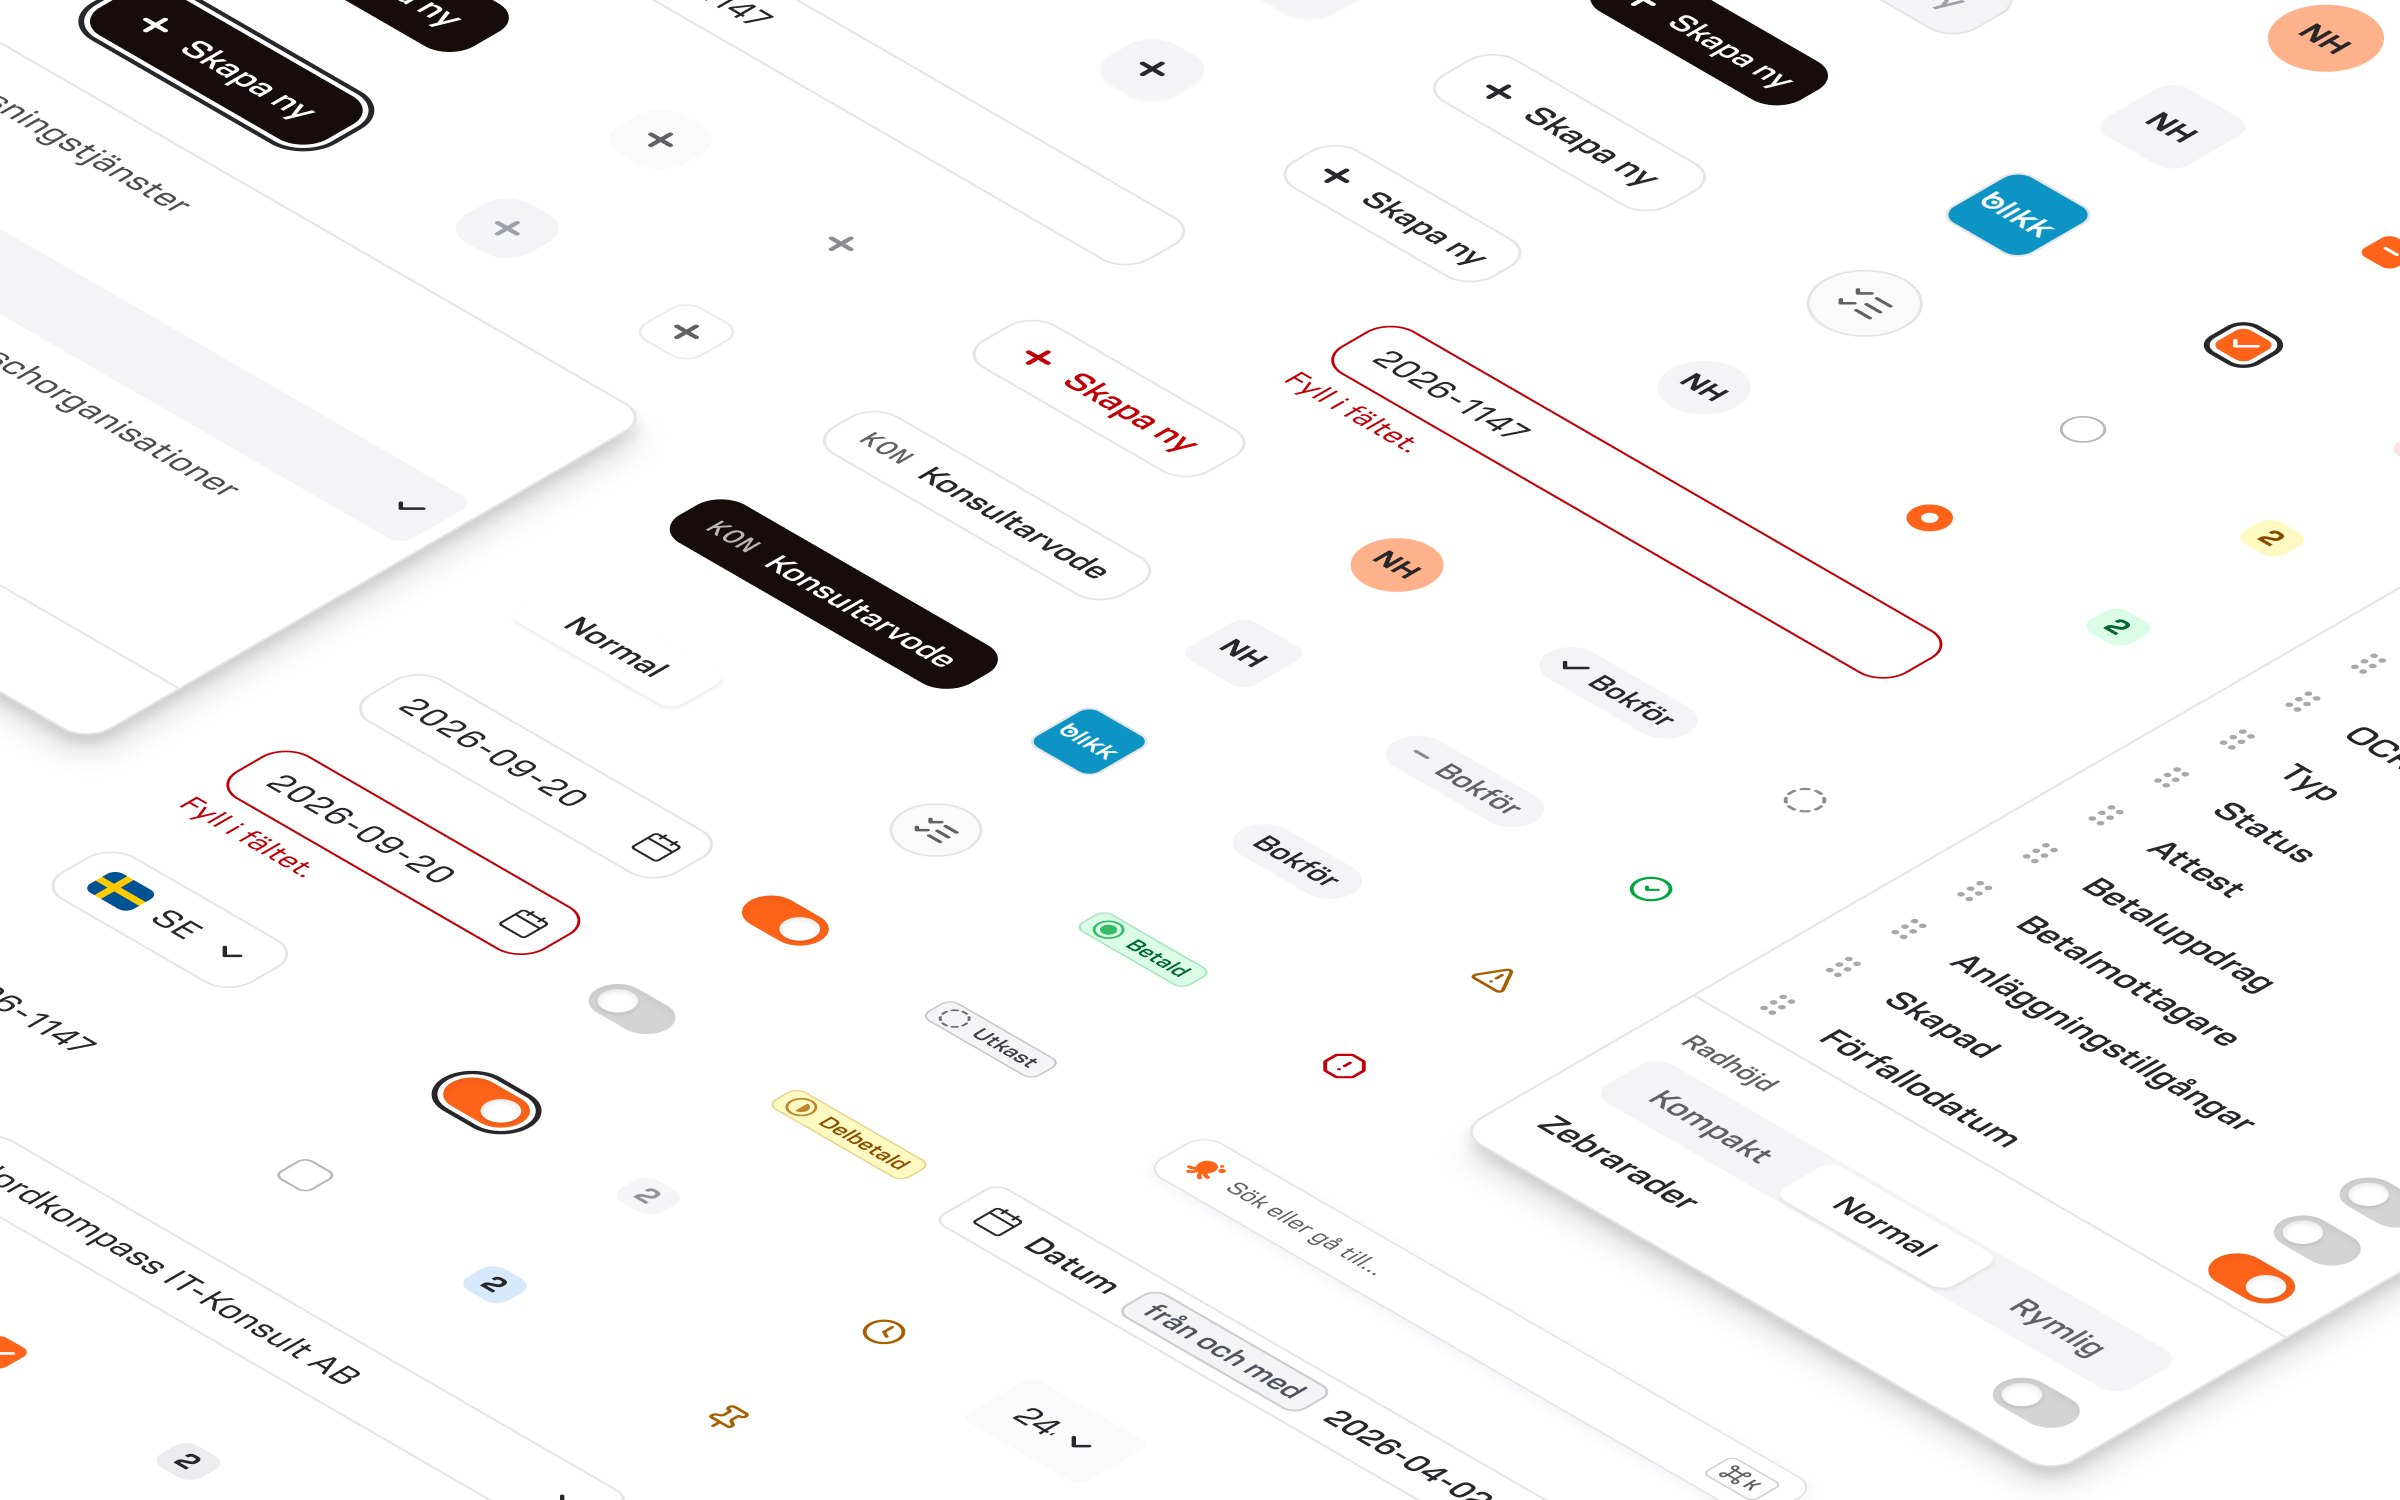
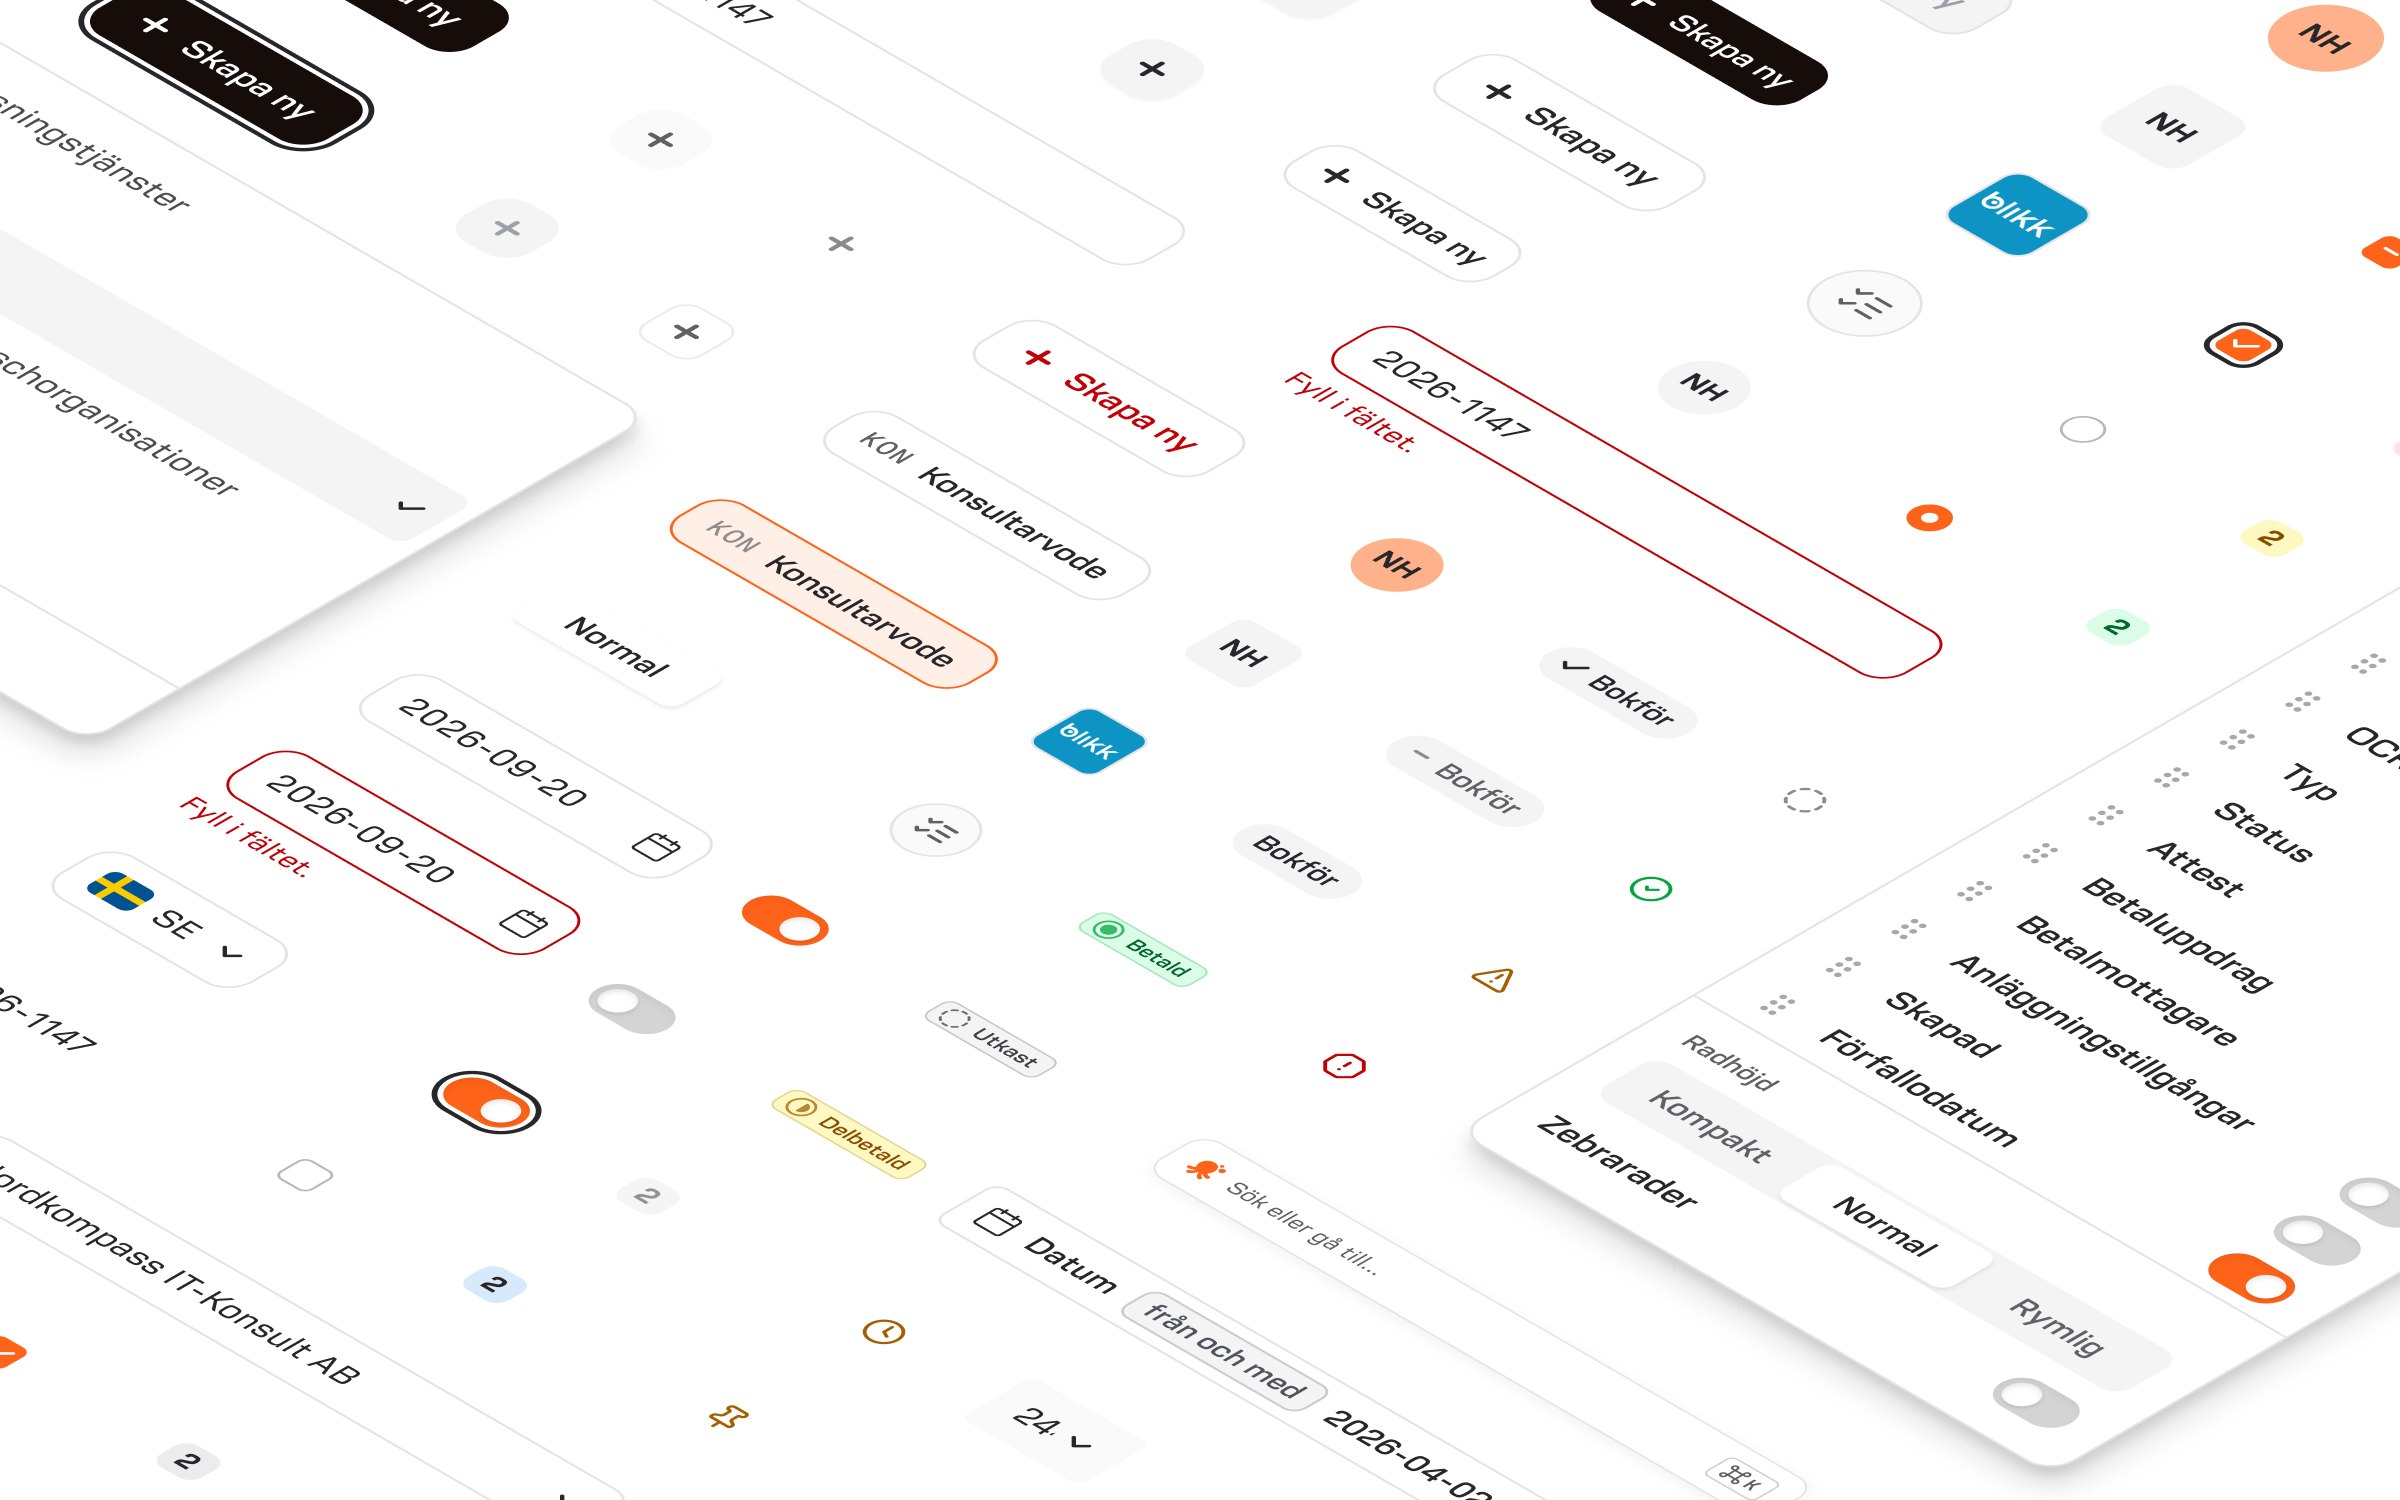
Oqto: new article chip in the isometric and components images
Claude-Session: https://claude.ai/code/session_01T8AAM769pNUjzneeyTgJVR

Changed region(s): [[0.2812, 0.3373, 0.4375, 0.46]]

diff --git a/docs/oqto/index.html b/docs/oqto/index.html
@@ -101,7 +101,7 @@
 <p class="c-step-text">Buttons, fields, chips, menus and tables, each with its states. The Figma library and its written guidelines are connected to Claude Code, so new features follow the system from the start. Everything works in light and dark mode.</p>
 </div>
 </div>
-<div data-px="-1" data-rv="3" data-lb="1" tabindex="0" role="button" aria-label="Enlarge image" class="rv c-clip"><img class="zm px" src="../assets/oqto-components-1400.webp?v=0dec81bb" srcset="../assets/oqto-components-800.webp?v=1de155e1 800w, ../assets/oqto-components-1400.webp?v=0dec81bb 1400w, ../assets/oqto-components.webp?v=4361750e 2400w" sizes="(min-width: 1440px) 1200px, 92vw" data-lbsrc="../assets/oqto-components.webp?v=4361750e" loading="lazy" decoding="async" alt="A selection of Oqto components laid out on an isometric plane" width="2400" height="1500"></div>
+<div data-px="-1" data-rv="3" data-lb="1" tabindex="0" role="button" aria-label="Enlarge image" class="rv c-clip"><img class="zm px" src="../assets/oqto-components-1400.webp?v=158d2fc4" srcset="../assets/oqto-components-800.webp?v=09417ad9 800w, ../assets/oqto-components-1400.webp?v=158d2fc4 1400w, ../assets/oqto-components.webp?v=a284b4b2 2400w" sizes="(min-width: 1440px) 1200px, 92vw" data-lbsrc="../assets/oqto-components.webp?v=a284b4b2" loading="lazy" decoding="async" alt="A selection of Oqto components laid out on an isometric plane" width="2400" height="1500"></div>
 <div data-rv="4" data-lb="1" tabindex="0" role="button" aria-label="Enlarge image" class="rv c-clip"><div class="zm ld"><img src="../assets/oqto-dark-g-1400.jpg?v=3f939e47" srcset="../assets/oqto-dark-g-800.jpg?v=39d6bf9e 800w, ../assets/oqto-dark-g-1400.jpg?v=3f939e47 1400w, ../assets/oqto-dark-g.jpg?v=1dbd0e84 2400w" sizes="(min-width: 1440px) 1200px, 92vw" data-lbsrc="../assets/oqto-dark-g.jpg?v=1dbd0e84" loading="lazy" decoding="async" alt="The automations start view and the supplier invoice list in dark mode" width="2400" height="1500"><img class="li" src="../assets/oqto-light-1400.webp?v=5ecb5cf8" srcset="../assets/oqto-light-800.webp?v=518fa672 800w, ../assets/oqto-light-1400.webp?v=5ecb5cf8 1400w, ../assets/oqto-light.webp?v=f5364087 2400w" sizes="(min-width: 1440px) 1200px, 92vw" data-lbsrc="../assets/oqto-light.webp?v=f5364087" loading="lazy" decoding="async" alt="The automations start view and the supplier invoice list in light mode" width="2400" height="1500"></div></div>
 </section>
 
@@ -113,7 +113,7 @@
 <p class="c-step-text">I redesigned a selection of screens chosen to cover as much of the product as possible, and reworked the flows that needed bigger changes. Below is one of them: the editor for building automations.</p>
 </div>
 </div>
-<div data-px="1" data-rv="6" data-lb="1" tabindex="0" role="button" aria-label="Enlarge image" class="rv c-clip"><img class="zm px" src="../assets/oqto-screens-1400.webp?v=55866991" srcset="../assets/oqto-screens-800.webp?v=ad78ada6 800w, ../assets/oqto-screens-1400.webp?v=55866991 1400w, ../assets/oqto-screens.webp?v=4e130605 2400w" sizes="(min-width: 1440px) 1200px, 92vw" data-lbsrc="../assets/oqto-screens.webp?v=4e130605" loading="lazy" decoding="async" alt="Oqto screens in an isometric grid, including a new customer invoice, month-end closing and the command centre in dark mode" width="2400" height="1500"></div>
+<div data-px="1" data-rv="6" data-lb="1" tabindex="0" role="button" aria-label="Enlarge image" class="rv c-clip"><img class="zm px" src="../assets/oqto-screens-1400.webp?v=a6fdcdf1" srcset="../assets/oqto-screens-800.webp?v=bbe81201 800w, ../assets/oqto-screens-1400.webp?v=a6fdcdf1 1400w, ../assets/oqto-screens.webp?v=97105697 2400w" sizes="(min-width: 1440px) 1200px, 92vw" data-lbsrc="../assets/oqto-screens.webp?v=97105697" loading="lazy" decoding="async" alt="Oqto screens in an isometric grid, including a new customer invoice, month-end closing and the command centre in dark mode" width="2400" height="1500"></div>
 <div data-rv="5" data-lb="1" tabindex="0" role="button" aria-label="Enlarge image" class="rv c-clip"><div class="zm an ap"><img src="../assets/oqto-autopilot-screen-1400.webp?v=e877b4d3" srcset="../assets/oqto-autopilot-screen-800.webp?v=689e47ad 800w, ../assets/oqto-autopilot-screen-1400.webp?v=e877b4d3 1400w, ../assets/oqto-autopilot-screen.webp?v=055c99a0 2400w" sizes="(min-width: 1440px) 1200px, 92vw" loading="lazy" decoding="async" data-lbsrc="../assets/oqto-autopilot.webp?v=69045211" alt="The automation editor in Oqto, with the automation’s card on top" width="2400" height="1500">
 <div aria-hidden="true"><i class="fl f1"></i><i class="fl f2"></i><i class="fl f3"></i><i class="fl f4"></i><i class="fl f5"></i><i data-rv="8" class="ac rv c-e239d3"></i></div></div></div>
 </section>

diff --git a/site/build.py b/site/build.py
@@ -19,10 +19,10 @@ ASSETS = {
     "c4459226de797c4df204a6b0b06ca3d5": "svartanatt.jpg", "fec15f3ac0007fd30fc3f6f249fd448c": "henrik.jpg",
     "aa1eb67f8c8be2493bbfd4aa54762e37": "oqto-type.jpg", "471465112e013b29ffcea0fa0ea3b559": "oqto-components.jpg",
     "c34dd534a3003ee261711ca87890d62c": "oqto-dark.jpg", "b7a1f7ae78d363ddf79c024ff4bfa8f4": "oqto-light.jpg",
-    "c34b591a7f8fddf09f75926bdbe9cb4d": "oqto-screens.jpg", "9aed89d8ef290ab64dbcbde6ca8f4fda": "oqto-screens.jpg", "6f9deb035305d822828b08e689c25451": "oqto-screens.jpg", "dbdfddcb489a4fa26ab7ab5cb80e16ca": "oqto-screens.jpg",
+    "c34b591a7f8fddf09f75926bdbe9cb4d": "oqto-screens.jpg", "9aed89d8ef290ab64dbcbde6ca8f4fda": "oqto-screens.jpg", "6f9deb035305d822828b08e689c25451": "oqto-screens.jpg", "0a2417b9568fc6adf482700ec69af507": "oqto-screens.jpg",
     "58de01b9072eda84254cd01a48c40ef2": "oqto-hero.jpg", "39ef734d077cfb8ce0194b15663db30b": "oqto-hero-full.jpg",
     "61a378bf7433de32c670c178063634b2": "oqto-autopilot-screen.jpg", "383cff83cd54a399877734eba3790234": "oqto-autopilot.jpg",
-    "43354ec57226250cefeb1cbb4d54810b": "oqto-autopilot-card.jpg", "9aa647c4ebf37b042b20b8b87da433a1": "oqto-components.jpg", "65ae19d31029925e96dfdd8e898d1392": "oqto-components.jpg",
+    "43354ec57226250cefeb1cbb4d54810b": "oqto-autopilot-card.jpg", "9aa647c4ebf37b042b20b8b87da433a1": "oqto-components.jpg", "5fc9ad4f7f65985bed959dba64ca91ce": "oqto-components.jpg",
     "a06f2b58758b6fb555fed11e960a2e03": "oqto-app.jpg", "e12f6c6e1533b4a8be48896524a14591": "oqto-app.jpg",
     "637462e7e8cb1a3e784b541fafad197d": "tink-logo.jpg", "d231f1039acc7b8c33ee891994a401d8": "tink-logo.jpg", "b6b1e8a8e5fa98b758e017b9d7b81266": "tink-colours.jpg", "6e3a6e0409bc43d9788ccd3c57f38416": "tink-colours-full.jpg",
     "8ccadca1c7c70a65154867eb4540ba2f": "tink-poster.jpg", "9a65abafdb9345d5e481ffe969c22879": "tink-type.jpg",
